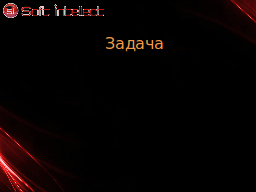
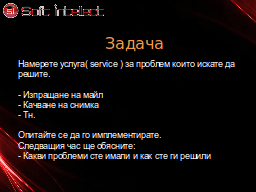
Update pages

Changed region(s): [[0.0625, 0.6562, 0.8438, 0.8438], [0.0625, 0.3125, 0.9375, 0.4062], [0.0625, 0.4688, 0.4062, 0.625]]

diff --git a/pages/slides/15.SMALL-POLISHINGS/text9.html b/pages/slides/15.SMALL-POLISHINGS/text9.html
@@ -10,7 +10,12 @@
 <a href="text0.html">First page</a> <a href="text8.html">Back</a> <a href="text10.html">Continue</a> <a href="text10.html">Last page</a> <a href="15.SMALL-POLISHINGS.html">Overview</a> <a href="img9.html">Graphics</a></center><br>
 <h1></h1>
 <p>Задача</p>
-<p>Услуга която може да бъде достъпена според протокол дефиниран от survice</p>
-<p>- Най-разпростанени са XML( SOAP ), REST, JSON service</p>
+<p>Намерете услуга( service ) за проблем които искате да решите. </p>
+<p>- Изпращане на майл</p>
+<p>- Качване на снимка </p>
+<p>- Тн.</p>
+<p>Опитайте се да го имплементирате.</p>
+<p>Следващия час ще обясните:</p>
+<p>- Какви проблеми сте имали и как сте ги решили</p>
 </body>
 </html>
